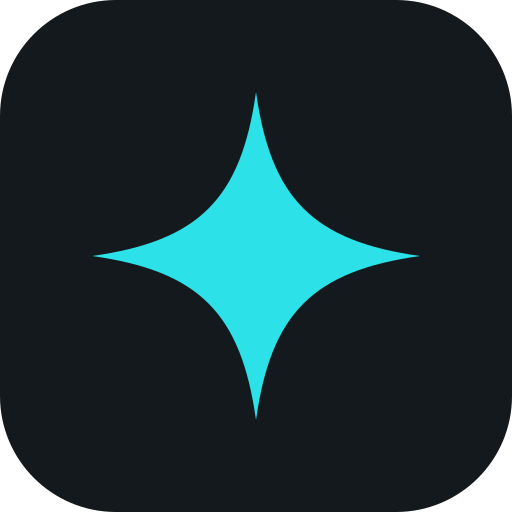
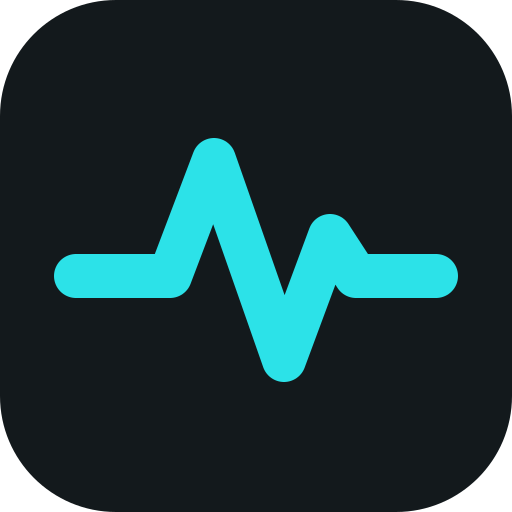
Add the AI Pulse brand, English nameplates, NOTICE and legal page templates
- site/brand: a pulse-line mark as logo.svg, icons, favicon.ico and
  wordmark(-dark).svg; the web wordmark uses the same mark.
- Brief nameplates read "AI Daily", "AI Weekly", "AI Monthly" and
  "Daily Archive"; scripts/nameplates.ts now sets all-Latin titles.
- NOTICE credits AIHOT (MIT) and states AI Pulse does not use its name or
  logo; the about page carries the same credit with a link.
- site/pages terms and privacy are English templates for the owner to fill in.

Claude-Session: https://claude.ai/code/session_01126hidJZ3ss8gjMTCzKo4X

Changed region(s): [[0.0938, 0.1875, 0.9062, 0.8125]]

diff --git a/scripts/nameplates.ts b/scripts/nameplates.ts
@@ -1,8 +1,8 @@
 // Generates the report nameplates (site/brand/nameplates/*.svg and index.json): the subject word
-// from site/site.ts (in the accent) and the Chinese title, set solid in Noto Sans SC Black
-// (SIL OFL 1.1) as SVG paths, so the nameplate is one static logotype on every system. The Latin
-// capitals are scaled to stand as tall as the Chinese glyphs, both centred on one line, and the spacing
-// is set by ink, pair by pair.
+// from site/site.ts (in the accent) and the brief's name, set solid in Noto Sans SC Black
+// (SIL OFL 1.1) as SVG paths, so the nameplate is one static logotype on every system. Latin capitals
+// are scaled to stand as tall as any Chinese glyphs, both centred on one line; spacing is set by ink,
+// pair by pair, with a word space between parts, and the box follows the ink (descenders included).
 //
 // Usage: node scripts/nameplates.ts <@fontsource/noto-sans-sc package directory>
 //   (fetch it with `npm pack @fontsource/noto-sans-sc@5.3.0` and untar; it is not a dependency)
@@ -31,21 +31,23 @@ const S = SITE.subject;
 const NAMEPLATES: Record<string, Array<{ text: string; accent: boolean }>> = {
   daily: [
     { text: S, accent: true },
-    { text: "日报", accent: false },
+    { text: "Daily", accent: false },
   ],
   weekly: [
     { text: S, accent: true },
-    { text: "周报", accent: false },
+    { text: "Weekly", accent: false },
   ],
   monthly: [
     { text: S, accent: true },
-    { text: "月报", accent: false },
+    { text: "Monthly", accent: false },
   ],
   archive: [
-    { text: "日报", accent: false },
-    { text: "合订本", accent: true },
+    { text: "Daily", accent: false },
+    { text: "Archive", accent: true },
   ],
 };
+/** Space between two Latin parts (words). */
+const WORD = H * 0.3;
 
 // Which woff slice of the 900 weight holds each character.
 const css = readFileSync(path.join(pkg, "900.css"), "utf8");
@@ -75,29 +77,37 @@ function fit(group: string[], height: number) {
   const size = (1000 * height) / (bottom - top);
   return { size, baseline: -((top + bottom) / 2) * (size / 1000) };
 }
-const cjk = fit(chars.filter((ch) => !isLatin(ch)), H);
-const latin = chars.some(isLatin) ? fit(chars.filter(isLatin), CAPS) : cjk;
+const ideographs = chars.filter((ch) => !isLatin(ch));
+// Latin is fitted by its capitals, so lowercase letters keep their natural x-height and descenders.
+const capitals = chars.filter((ch) => /[A-Z]/.test(ch));
+const latin = fit(capitals.length ? capitals : chars.filter(isLatin), CAPS);
+const cjk = ideographs.length ? fit(ideographs, H) : latin;
 
 const out: Record<string, { viewBox: string; accent: string; ink: string }> = {};
 for (const [name, parts] of Object.entries(NAMEPLATES)) {
   const accent: string[] = [];
   const ink: string[] = [];
   let x = MARGIN;
+  let top = -Math.max(H, CAPS) / 2;
+  let bottom = Math.max(H, CAPS) / 2;
   let prev: string | null = null;
   for (const part of parts) {
+    let first = true;
     for (const ch of part.text) {
       const { size, baseline } = isLatin(ch) ? latin : cjk;
       const box = boxes.get(ch)!;
       const scale = size / 1000;
-      if (prev) x += gap(prev, ch);
+      if (prev) x += first && isLatin(prev) && isLatin(ch) ? WORD : gap(prev, ch);
+      first = false;
+      top = Math.min(top, baseline + box.y1 * scale);
+      bottom = Math.max(bottom, baseline + box.y2 * scale);
       const origin = x - box.x1 * scale;
       (part.accent ? accent : ink).push(fontFor(ch).getPath(ch, origin, baseline, size).toPathData(1));
       x = origin + box.x2 * scale;
       prev = ch;
     }
   }
-  const half = Math.max(H, CAPS) / 2 + MARGIN;
-  out[name] = { viewBox: `0 ${(-half).toFixed(1)} ${(x + MARGIN).toFixed(1)} ${(2 * half).toFixed(1)}`, accent: accent.join(" "), ink: ink.join(" ") };
+  out[name] = { viewBox: `0 ${(top - MARGIN).toFixed(1)} ${(x + MARGIN).toFixed(1)} ${(bottom - top + 2 * MARGIN).toFixed(1)}`, accent: accent.join(" "), ink: ink.join(" ") };
 }
 
 const target = "site/brand/nameplates";

diff --git a/site/brand/Logo.tsx b/site/brand/Logo.tsx
@@ -1,11 +1,14 @@
-// 站点的字标和圆环标记：页面用 Wordmark 画站名（size 是高度，单位像素），RingMark 是小标记，转起来就是加载动画。
-// 这里用站名排字；有自己的 Logo 时，把 Wordmark 换成你的 SVG（保持同样的参数）。
+// The site's wordmark and ring mark: pages draw the name with Wordmark (size is its height in pixels); RingMark is
+// the small mark, and spinning it is the loader. The wordmark is the AI Pulse pulse mark followed by the site name.
 import { SITE } from "../site.ts";
 
 export function Wordmark({ size = 24, className = "", title = SITE.name }: { size?: number; className?: string; title?: string }) {
   return (
     <span className={`inline-flex items-center font-black leading-none tracking-[-0.03em] ${className}`} style={{ fontSize: Math.round(size * 0.92) }} aria-label={title} role="img">
-      <span aria-hidden="true" className="mr-[0.3em] inline-block size-[0.42em] rounded-full bg-accent" />
+      <svg aria-hidden="true" viewBox="0 0 512 512" className="mr-[0.3em] inline-block size-[0.9em] shrink-0">
+        <rect width="512" height="512" rx="116" fill="#13191c" />
+        <path d="M76 276H170L214 160L284 360L330 236L356 276H436" fill="none" stroke="#2ce2e8" strokeWidth="44" strokeLinecap="round" strokeLinejoin="round" />
+      </svg>
       <span aria-hidden="true">{SITE.name}</span>
     </span>
   );

diff --git a/site/site.ts b/site/site.ts
@@ -69,7 +69,7 @@ export const SITE = {
   /** Public contact email (optional), written into llms.txt and the agent guide. */
   contactEmail: null as string | null,
   /** Small line at the bottom of the about page (optional). */
-  footerNote: "Built on the open-source AIHOT framework (MIT)",
+  footerNote: null as string | null,
   /** Mainland China ICP filing number (optional); not used by this site. */
   icp: null as string | null,
   /** Mainland China public security filing (optional); not used by this site. */

diff --git a/site/pages/privacy.md b/site/pages/privacy.md
@@ -1,34 +1,34 @@
-# 隐私说明
+# Privacy notice
 
-这是开源框架自带的模板，只写了这套软件默认会处理哪些数据。上线前请按你的实际情况改写（运营主体、联系方式、你另外接入的统计或服务），必要时请专业人士审阅。
+This is the template that comes with the open-source framework. It covers only the data this software handles by default. Before launch, rewrite it for your situation (who runs the site, how to reach you, any analytics or services you add), and have a professional review it if needed.
 
-| 项 | 值 |
+| Item | Value |
 |---|---|
-| 版本 | 请填写 |
-| 生效日期 | 请填写 |
-| 运营主体 | 请填写 |
-| 联系方式 | 请填写 |
+| Version | To be filled in |
+| Effective date | To be filled in |
+| Operator | To be filled in |
+| Contact | To be filled in |
 
-页首说明：
+Page intro:
 
-> 使用本站不需要注册或登录。我们只处理让网站正常运行、处理反馈所必需的信息，不出售个人信息。
+> You do not need to sign up or log in to use this site. We handle only the information needed to run the site and to handle feedback, and we do not sell personal information.
 
-## 1. 浏览器本地数据
+## 1. Data stored in your browser
 
-收藏、已读记录、深浅色设置、最近搜索（你搜过的词，最多 10 条）、更新日志已读状态和反馈草稿保存在你当前的浏览器里；返回时的列表位置、滚动位置和展开状态只存在当前标签页的会话存储里，关闭标签页即清除。这些都不会发送到服务器。清除浏览器数据后它们会消失；换设备不会同步。收藏、已读记录和深浅色设置可以在“收藏”页导出和导入。
+Saved items, read marks, the appearance setting, recent searches (up to 10 terms), whether you have seen the latest changelog, and feedback drafts are kept in your current browser. List positions, scroll positions and expanded sections are kept only in the current tab's session storage and are cleared when you close the tab. None of this is sent to the server. Clearing browser data removes it, and it does not sync between devices. Saved items, read marks and the appearance setting can be exported and imported on the Saved page.
 
-## 2. 反馈
+## 2. Feedback
 
-你在反馈页提交的内容、选填的邮箱、提交时所在页面的地址，以及你选择附上的截图，会保存在服务器上，用于处理你的反馈。站点配置了飞书内部群时，反馈会转发到那个群，截图上传到飞书后服务器上不再保留。为防止滥用，服务器会保存一个由网络地址和浏览器类别计算出的、无法还原的标识，用于限流和封禁滥用来源。
+What you send on the feedback page, the optional email, the address of the page you were on, and any screenshot you attach are stored on the server to handle your feedback. If the site is set up with an internal Feishu group, feedback is forwarded there, and screenshots are no longer kept on the server once uploaded to Feishu. To prevent abuse, the server keeps an identifier computed from your network address and browser type that cannot be reversed, used for rate limits and to block abusive senders.
 
-## 3. 服务器与网络日志
+## 3. Server and network logs
 
-本软件默认不做访客统计。你的服务器、反向代理或 CDN 可能会按它们自己的配置记录访问日志（如 IP 地址、访问时间、页面地址、浏览器信息）。请在这里写明你实际使用的服务和保存期限。
+This software does not track visitors by default. Your server, reverse proxy or CDN may keep access logs under their own settings (such as IP address, time, page address and browser information). State here which services you actually use and how long they keep logs.
 
-## 4. 第三方内容
+## 4. Third-party content
 
-本站展示的是第三方原文的摘要与链接。点击原文链接后，你访问的是对方网站，适用对方的隐私政策。
+This site shows summaries of and links to third-party originals. When you follow a link to an original, you are on that site, and its privacy policy applies.
 
-## 5. 联系我们
+## 5. Contact us
 
-请写明联系方式，以及查询、更正或删除反馈资料的方式。
+State how to reach you, and how people can ask to see, correct or delete their feedback.

diff --git a/site/pages/terms.md b/site/pages/terms.md
@@ -1,34 +1,34 @@
-# 使用规则
+# Terms of use
 
-这是开源框架自带的模板。上线前请按你的实际情况改写（运营主体、允许和不允许的用途、联系方式），必要时请专业人士审阅。
+This is the template that comes with the open-source framework. Before launch, rewrite it for your situation (who runs the site, which uses are allowed or not, how to reach you), and have a professional review it if needed.
 
-| 项 | 值 |
+| Item | Value |
 |---|---|
-| 版本 | 请填写 |
-| 生效日期 | 请填写 |
-| 运营主体 | 请填写 |
-| 联系方式 | 请填写 |
+| Version | To be filled in |
+| Effective date | To be filled in |
+| Operator | To be filled in |
+| Contact | To be filled in |
 
-页首说明：
+Page intro:
 
-> 本站聚合公开信源，用模型生成中文摘要与精选，原文版权归各来源所有。网页、RSS、公开 API 与 MCP 均可匿名使用。
+> This site collects public sources and uses AI models to write English summaries and pick the news worth reading. Original articles belong to their publishers. The pages, RSS feeds, public API and MCP can all be used without an account.
 
-## 1. 内容与版权
+## 1. Content and copyright
 
-本站展示的标题、摘要和推荐理由由模型根据公开来源生成，可能有误，重要信息请以原文为准。原文版权归各来源所有；站内只在来源允许时展示全文，其余只展示摘要和原文链接。
+The titles, summaries and "why it matters" lines on this site are written by AI models from public sources and may contain mistakes; check important information against the original. Original articles belong to their publishers. The site shows full text only when a source allows it; otherwise it shows a summary and a link to the original.
 
-## 2. 来源方的更正与下架
+## 2. Corrections and takedowns for publishers
 
-如果你是来源方，希望更正、下架或调整展示方式，请通过反馈页联系我们，我们会尽快处理。
+If you publish one of our sources and want a correction, a takedown or a different display, contact us through the feedback page and we will handle it promptly.
 
-## 3. 使用本站的数据
+## 3. Using this site's data
 
-请写明你允许的用途（例如个人阅读、组织内部使用），以及需要事先取得你同意的用途（例如商业产品、公开转载、批量再分发）。
+State which uses you allow (for example personal reading or internal use in an organization) and which need your permission first (for example commercial products, public republishing or bulk redistribution).
 
-## 4. 接口与频率
+## 4. Interfaces and request rates
 
-RSS、公开 API 和 MCP 为匿名只读接口。请按响应中的缓存时间轮询，遇到 429 请遵守 Retry-After，不要并发重试。
+RSS, the public API and MCP are anonymous, read-only interfaces. Poll according to the cache times in responses; on a 429, follow Retry-After and do not retry in parallel.
 
-## 5. 免责
+## 5. Disclaimer
 
-本站按“现状”提供，不保证内容完整、准确和持续可用。
+This site is provided "as is", without any promise that its content is complete, accurate or always available.
